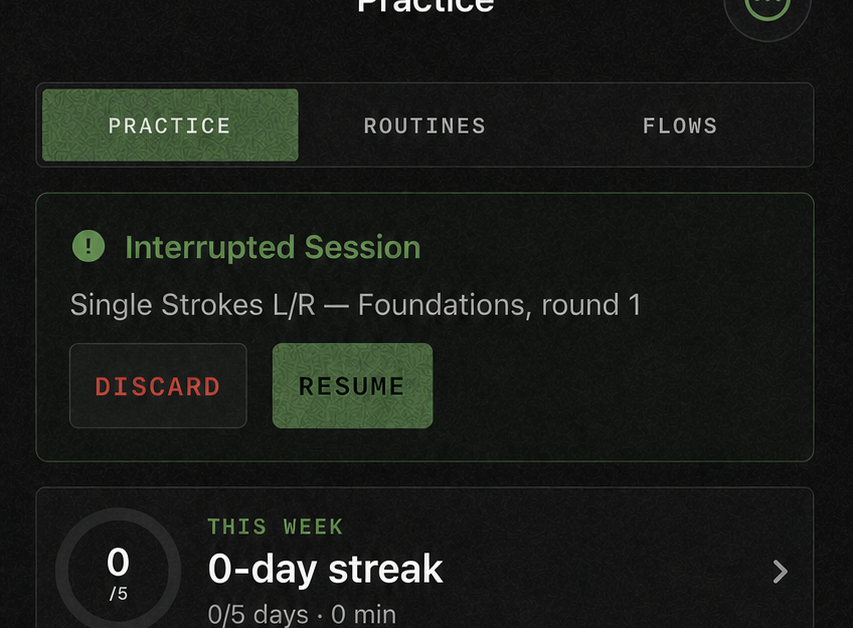
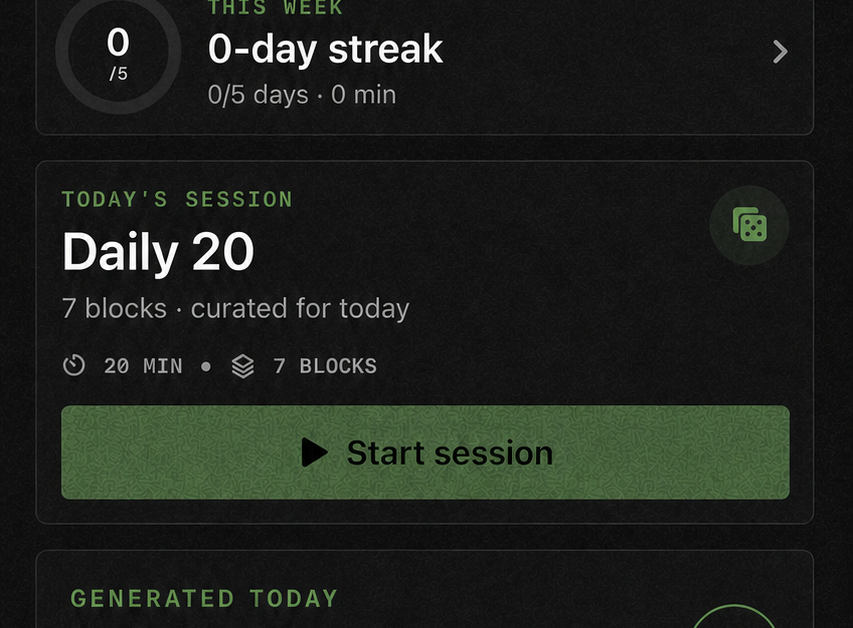
Put notation on the guided-practice card
The card argued for guided practice with a screenshot of an interrupted
session offering Discard and Resume, which is the one moment in that
screen nobody wants to advertise. It now shows the exercise itself:
notation, sticking, counts and the practice tools under it. The Practice
screen still appears on the timing cards, cropped past the resume prompt
to today's session.

diff --git a/components/LandingPage.tsx b/components/LandingPage.tsx
@@ -122,7 +122,7 @@ const copy = {
 // to the control the card is talking about.
 const featureScreens = [
   { src: "rudiment-card.png", alt: "Drumloom notation for Single Stroke Four with sticking and beat counts" },
-  { src: "practice-card.png", alt: "Drumloom Practice screen with its session tabs" },
+  { src: "exercise-tools-card.png", alt: "Drumloom notation with sticking and counts above the practice tools" },
   { src: "beat-builder-card.png", alt: "Drumloom Beat Builder step grid with hi-hat, snare and kick placed" },
   { src: "metronome-card.png", alt: "Drumloom Metronome dial at 120 BPM with the beat display below" },
   { src: "practice-card.png", alt: "Drumloom Practice screen used for focused timing work" },
